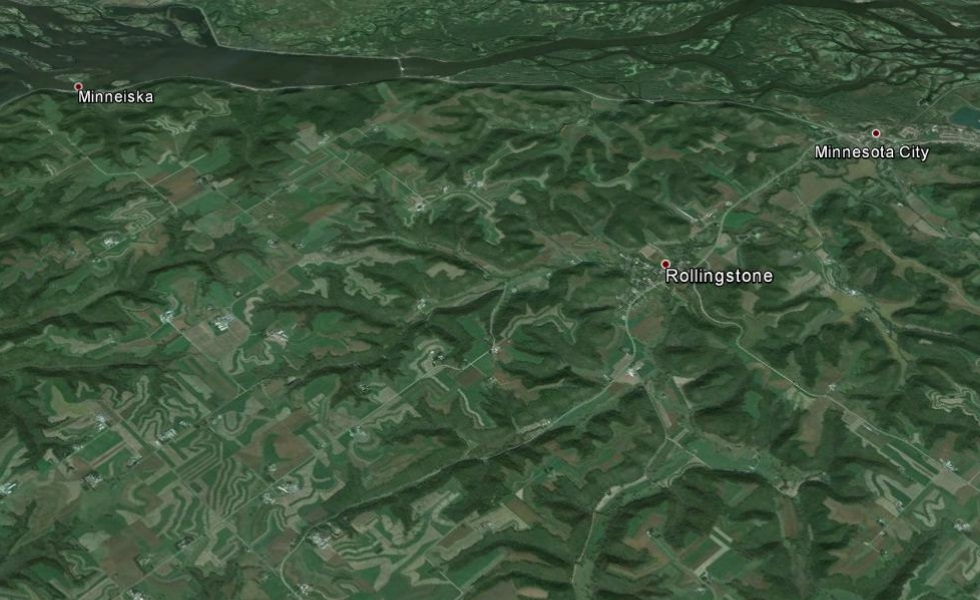
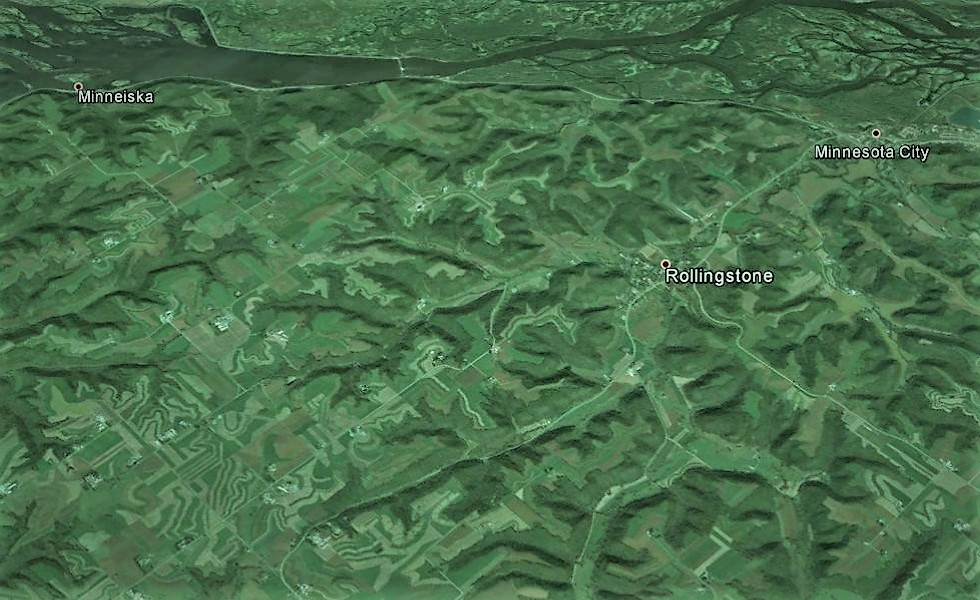
lighten background

diff --git a/index.html b/index.html
@@ -4,7 +4,7 @@
 <style>
 body
 {
-	background-image: url("htpm.jpg");
+	background-image: url("htpm2.jpg");
 	background-size: 100%;
 }
 #title
